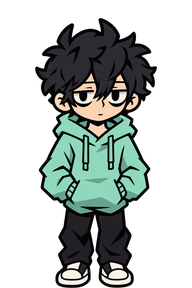
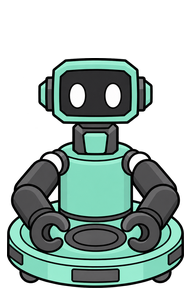
주인공을 로봇 그림으로 바꾸고(Codex), 판을 그릴 때 그림이 미끄러져 들어오던 것을 고침
로봇 8번의 네 방향 그림이 주인공 그림을 대신한다. 새로 만든 그림을 처음 자리에 놓을 때는 움직임 효과를 꺼서,
레벨을 시작할 때 모든 그림이 장면 왼쪽 위에서 미끄러져 들어오며 깜빡이던 문제를 없앴다(known-issues 20번).

diff --git a/index.html b/index.html
@@ -117,6 +117,8 @@
       transition: transform 130ms linear, opacity 0.5s ease;
     }
 
+    .instant .sprite { transition: none !important; }
+
     .sprite img {
       display: block;
       width: 100%;
@@ -1494,6 +1496,8 @@
         applyGrid();
         drawBackdrop();
         ui.actors.innerHTML = '';
+        // 새로 만든 그림이 처음 자리로 갈 때는 움직임 효과를 끈다. 켜 두면 모든 그림이 장면 왼쪽 위에서 미끄러져 들어와 깜빡였다.
+        ui.actors.classList.add('instant');
         game.sprites.filmer = null;
         ui.portrait.classList.remove('show');
         const villain = level.villain;
@@ -1555,6 +1559,7 @@
         drawGoal();
         drawStream();
         syncFilmer();
+        requestAnimationFrame(() => requestAnimationFrame(() => ui.actors.classList.remove('instant')));
         placeAll();
         drawView();
         drawDots();

diff --git a/known-issues.md b/known-issues.md
@@ -119,3 +119,9 @@
 - 증상: 소리가 전체적으로 컸고, 클리어 음악이 배경 음악 위에 더 크게 겹쳐 따로 노는 소리가 났다.
 - 원인: 두 파일의 크기를 재지 않고 원래 크기 그대로(배경 음악만 55%) 틀었다. 클리어 음악(RMS -17.5dB, 피크 -0.1dB)이 배경 음악보다 약 4dB 컸다.
 - 규칙: 소리 파일을 넣으면 RMS와 피크를 재서 index.html의 MUSIC_MAX, SFX_MAX와 함께 적는다. 짧은 음악이 나올 때는 배경 음악을 줄인다.
+
+## 20. 판을 그릴 때마다 모든 그림이 장면 왼쪽 위에서 미끄러져 들어왔다
+
+- 증상: 레벨을 시작하거나 다시 그릴 때, 주인공과 물건과 손님이 한순간 장면 왼쪽 위에서 제자리로 미끄러져 깜빡였다.
+- 원인: 그림의 자리를 transform으로 옮기고 transform에 움직임 효과(0.13초)를 걸어 두어서, 새로 만든 그림이 기본 자리(0, 0)에서 첫 자리로 움직였다.
+- 규칙: 그림을 새로 만들어 처음 자리에 놓을 때는 움직임 효과를 끈다(index.html의 .instant). 걸음처럼 이미 있는 그림을 옮길 때만 효과를 쓴다.
